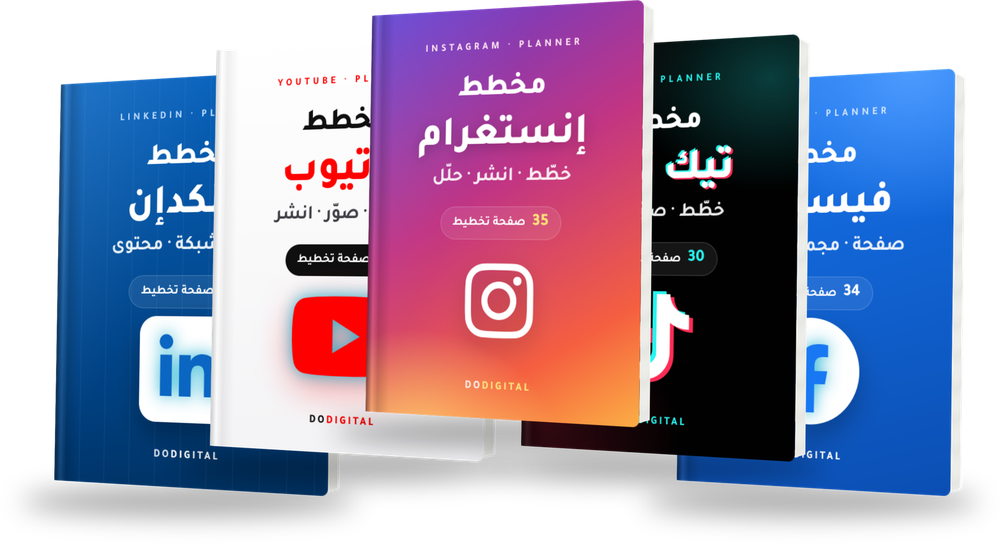
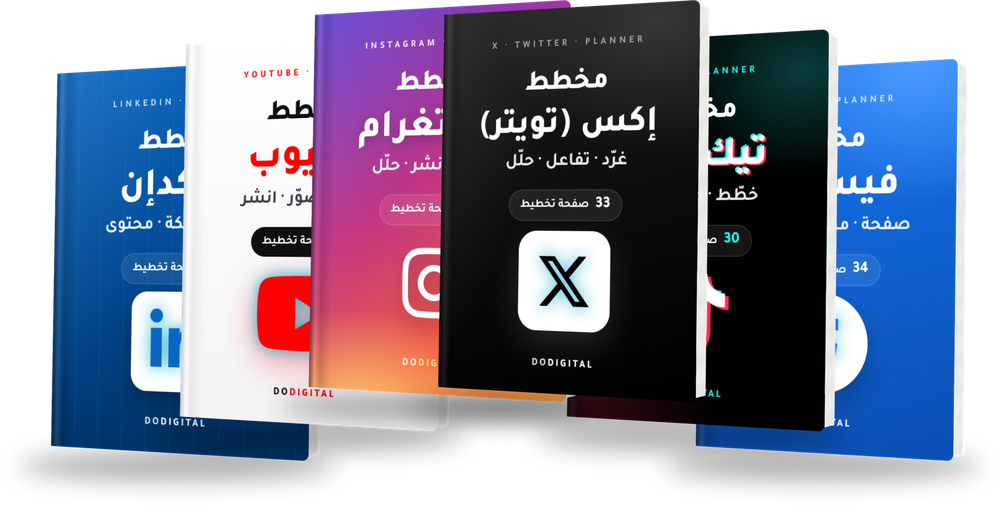
Add Arabic X (Twitter) planner; include it in both bundles
Claude-Session: https://claude.ai/code/session_01BZyLcaM7EqB3e378WxuMfY

diff --git a/template-x-planner.html b/template-x-planner.html
@@ -1,0 +1,134 @@
+<!doctype html>
+<html lang="ar" dir="rtl">
+<head>
+<meta charset="utf-8">
+<meta name="viewport" content="width=device-width, initial-scale=1">
+<title>مخطط إكس (تويتر) | DoDigital</title>
+<meta name="description" content="مخطط عربي متكامل لحسابك على إكس (تويتر): الملف والهوية وصوت العلامة، تخطيط التغريدات والوسائط والاستطلاعات والمساحات، الإحصائيات والأهداف، وحملات الإعلانات">
+<meta name="theme-color" content="#0B1026">
+<link rel="canonical" href="https://dodigital.me/template-x-planner.html">
+<meta property="og:type" content="website">
+<meta property="og:locale" content="ar_AR">
+<meta property="og:site_name" content="DoDigital">
+<meta property="og:title" content="مخطط إكس (تويتر) | DoDigital">
+<meta property="og:description" content="مخطط عربي متكامل لحسابك على إكس (تويتر): الملف والهوية وصوت العلامة، تخطيط التغريدات والوسائط والاستطلاعات والمساحات، الإحصائيات والأهداف، وحملات الإعلانات">
+<meta property="og:url" content="https://dodigital.me/template-x-planner.html">
+<meta property="og:image" content="https://dodigital.me/assets/img/products/tpl-x-planner-mockup.jpg">
+<meta name="twitter:card" content="summary_large_image">
+<link rel="icon" type="image/png" sizes="32x32" href="assets/img/favicon-32.png">
+<link rel="apple-touch-icon" href="assets/img/apple-touch-icon.png">
+<link rel="preconnect" href="https://fonts.googleapis.com">
+<link rel="preconnect" href="https://fonts.gstatic.com" crossorigin>
+<link href="https://fonts.googleapis.com/css2?family=Tajawal:wght@400;500;700;800&display=swap" rel="stylesheet">
+<link rel="stylesheet" href="assets/vendor/fontawesome/css/all.min.css?v=20261112b">
+<link rel="stylesheet" href="assets/css/style.css?v=20261112b">
+<script type="application/ld+json">{"@context": "https://schema.org", "@type": "Product", "name": "مخطط إكس (تويتر)", "image": "https://dodigital.me/assets/img/products/tpl-x-planner-mockup.jpg", "description": "مخطط عربي متكامل لحسابك على إكس (تويتر): الملف والهوية وصوت العلامة، تخطيط التغريدات والوسائط والاستطلاعات والمساحات، الإحصائيات والأهداف، وحملات الإعلانات واستهدافها.", "brand": {"@type": "Brand", "name": "DoDigital"}, "offers": {"@type": "Offer", "price": "39", "priceCurrency": "SAR", "availability": "https://schema.org/InStock", "url": "https://dodigital.me/template-x-planner.html"}}</script>
+</head>
+<body>
+
+<!-- ===== HEADER (same on every page) ===== -->
+<header class="header header--light">
+  <div class="container">
+    <a class="logo" href="index.html" aria-label="DoDigital الرئيسية"><img src="assets/img/logo.png" alt="DoDigital" width="146" height="32"></a>
+    <nav class="nav" aria-label="القائمة الرئيسية">
+      <button class="nav-close" data-menu-close aria-label="إغلاق القائمة"><i class="fas fa-xmark"></i></button>
+      <ul>
+        <li><a href="index.html">الرئيسية</a></li>
+        <li class="has-sub"><a href="products.html" class="active">منتجاتنا <i class="fas fa-chevron-down chev"></i></a>
+          <div class="sub">
+            <a href="books.html"><i class="fas fa-book ico-cyan"></i><div><strong>كتبنا</strong><span>كتب إلكترونية عملية في التسويق والذكاء الاصطناعي</span></div></a>
+            <a href="templates.html"><i class="fas fa-layer-group ico-violet"></i><div><strong>قوالب للتسويق</strong><span>قوالب جاهزة توفّر وقتك</span></div></a>
+            <a href="prompts.html"><i class="fas fa-wand-magic-sparkles ico-green"></i><div><strong>برومبتات مجانية</strong><span>أوامر ذكاء اصطناعي جاهزة للنسخ</span></div></a>
+          </div>
+        </li>
+        <li><a href="blog.html">المدونة</a></li>
+        <li><a href="contact.html">تواصل معنا</a></li>
+      </ul>
+      <a class="btn btn--grad btn--sm" href="prompts.html"><i class="fas fa-gift"></i> برومبتات مجانية</a>
+    </nav>
+    <button class="menu-btn" data-menu-open aria-label="فتح القائمة"><i class="fas fa-bars"></i></button>
+  </div>
+</header>
+
+<main style="padding-top:110px">
+  <section class="section" style="padding-top:50px">
+    <div class="container pd">
+      <div class="pd__media"><div class="pd__mockup pd__mockup--3d"><div class="price-tag"><del>79 ر.س</del><strong>39 ر.س</strong></div><div class="book3d" data-book3d tabindex="0" role="img" aria-label="مخطط إكس (تويتر): اسحب لتدوير الكتاب أو اضغط لقلبه" style="--spine:#000000"><div class="book3d__inner"><div class="book3d__face book3d__front"><img src="assets/img/products/tpl-x-planner-front.jpg" alt="غلاف مخطط إكس (تويتر)" width="600" height="829"></div><div class="book3d__face book3d__back"><img src="assets/img/products/tpl-x-planner-back.jpg" alt="الغلاف الخلفي: مخطط إكس (تويتر)" width="600" height="829" loading="lazy"></div><div class="book3d__spine"></div><div class="book3d__side"></div><div class="book3d__top"></div><div class="book3d__bottom"></div></div></div><p class="book3d-hint"><i class="fas fa-hand-pointer"></i> اسحب الكتاب لتدويره، أو اضغط عليه لقلبه</p></div></div>
+      <div>
+        <div class="crumbs" style="color:var(--muted)"><a href="index.html">الرئيسية</a><span>/</span><a href="templates.html">قوالب للتسويق</a></div>
+        <span class="badge badge--green" style="margin-bottom:14px"><i class="fas fa-bolt"></i> مخطط PDF · 35 صفحة</span>
+        <h1>مخطط إكس (تويتر)</h1>
+        <span class="price"><del>79</del>39 ر.س</span>
+        <p class="lead">مخطط عربي متكامل لحسابك على إكس (تويتر): الملف والهوية وصوت العلامة، تخطيط التغريدات والوسائط والاستطلاعات والمساحات، الإحصائيات والأهداف، وحملات الإعلانات واستهدافها.</p>
+        <div class="facts"><span><i class="fas fa-file-pdf"></i> PDF للطباعة والآيباد</span><span><i class="fas fa-layer-group"></i> 33 صفحة تخطيط</span><span><i class="fas fa-tablet-screen-button"></i> GoodNotes / Notability</span><span><i class="fas fa-language"></i> بالعربي</span></div>
+        <div class="actions">
+          <a class="btn btn--wa" href="https://wa.me/971552473989?text=%D9%85%D8%B1%D8%AD%D8%A8%D8%A7%D9%8B%20DoDigital%D8%8C%20%D8%A3%D8%B1%D8%BA%D8%A8%20%D8%A8%D8%B4%D8%B1%D8%A7%D8%A1%3A%20%D9%85%D8%AE%D8%B7%D8%B7%20%D8%A5%D9%83%D8%B3%20%28%D8%AA%D9%88%D9%8A%D8%AA%D8%B1%29%20%2839%20%D8%B1.%D8%B3%29" target="_blank" rel="noopener"><i class="fab fa-whatsapp"></i> اطلب الآن</a>
+          <a class="btn btn--line" href="contact.html">لديك سؤال؟</a>
+        </div>
+        <div class="prose" style="margin-top:40px">
+          <h2 style="margin-top:0">ماذا يحتوي؟</h2>
+          <ul><li>نظرة على السنة، والملف الشخصي والهوية، والجمهور المستهدف والمجال، وصوت العلامة</li><li>خطة المحتوى الشهرية، وجدول النشر الأسبوعي، وخطة النشر اليومية بالساعات</li><li>مخطط تغريدة، وأفكار ومحاور التغريدات، وعصف ذهني، وقائمة المحتوى</li><li>مخطط الوسائط (صور، GIF، فيديو)، وأفكار الفيديو، وأفكار الاستطلاعات، ومخطط المساحات</li><li>الهاشتاقات، وحسابات وهاشتاقات أتابعها، وعبارات الدعوة لاتخاذ إجراء</li><li>الإحصائيات الشهرية، والأهداف الشهرية، ومراجعة الشهر، ومتتبع المتابعين</li><li>مخطط الإعلانات (الحملة والاستهداف)، وإعلان الكاروسيل، وجدول الإعلانات الأسبوعي والشهري، وقائمة تحسين الحملة</li><li>التعاونات والشراكات، وقائمة جودة التغريدة، ومهام وقوائم، وبنك المحتوى</li></ul>
+          <h2>لمن هذا المنتج؟</h2>
+          <ul><li>أصحاب المشاريع والعلامات على إكس</li><li>صنّاع المحتوى والكتّاب ومديرو الحسابات</li><li>من يدير إعلانات إكس ويريد تنظيمها</li></ul>
+          <h2>أسئلة شائعة</h2>
+          <h3>كيف أستخدم المخطط؟</h3><p>افتح الملف على الآيباد في GoodNotes أو Notability واضغط على أي صفحة في الفهرس للانتقال إليها واكتب عليه مباشرة، أو اطبع الصفحات التي تحتاجها.</p><h3>هل الملف قابل للتعديل في Canva؟</h3><p>لا، الملف PDF نهائي جاهز للاستخدام والكتابة عليه.</p><h3>هل المخطط بالعربي؟</h3><p>نعم، كل الصفحات بالعربية ومن اليمين لليسار.</p>
+          <p style="font-size:14px;color:var(--muted)">منتج مستقل من DoDigital وغير تابع لشركة إكس (X Corp) أو معتمد منها.</p>
+          <div class="callout">منتج رقمي يصلك رابط تحميله بعد إتمام الطلب. للاستخدام في مشروعك فقط، ويُمنع إعادة بيع الملفات أو مشاركتها. راجع <a href="refund.html">سياسة الاسترجاع</a>.</div>
+        </div>
+      </div>
+    </div>
+  </section>
+
+  <section class="section inside" style="padding-top:0">
+    <div class="container">
+      <div class="head"><span class="eyebrow"><i class="far fa-eye"></i> شاهد قبل الشراء</span><h2>من داخل مخطط إكس (تويتر)</h2><p>عيّنة من صفحات المخطط كما ستصلك. اضغط على أي صفحة لتكبيرها.</p></div>
+      <div class="inside__grid" data-inside><button type="button" data-full="assets/img/products/inside/x-2.jpg"><img src="assets/img/products/inside/x-2-sm.jpg" alt="صفحة المحتويات من مخطط إكس (تويتر)" width="360" height="509" loading="lazy"><span>المحتويات</span></button><button type="button" data-full="assets/img/products/inside/x-4.jpg"><img src="assets/img/products/inside/x-4-sm.jpg" alt="صفحة الملف الشخصي والهوية من مخطط إكس (تويتر)" width="360" height="509" loading="lazy"><span>الملف الشخصي والهوية</span></button><button type="button" data-full="assets/img/products/inside/x-6.jpg"><img src="assets/img/products/inside/x-6-sm.jpg" alt="صفحة خطة المحتوى الشهرية من مخطط إكس (تويتر)" width="360" height="509" loading="lazy"><span>خطة المحتوى الشهرية</span></button><button type="button" data-full="assets/img/products/inside/x-10.jpg"><img src="assets/img/products/inside/x-10-sm.jpg" alt="صفحة جدول الإعلانات الأسبوعي من مخطط إكس (تويتر)" width="360" height="509" loading="lazy"><span>جدول الإعلانات الأسبوعي</span></button><button type="button" data-full="assets/img/products/inside/x-15.jpg"><img src="assets/img/products/inside/x-15-sm.jpg" alt="صفحة قائمة المحتوى من مخطط إكس (تويتر)" width="360" height="509" loading="lazy"><span>قائمة المحتوى</span></button><button type="button" data-full="assets/img/products/inside/x-18.jpg"><img src="assets/img/products/inside/x-18-sm.jpg" alt="صفحة قائمة جودة التغريدة من مخطط إكس (تويتر)" width="360" height="509" loading="lazy"><span>قائمة جودة التغريدة</span></button><button type="button" data-full="assets/img/products/inside/x-25.jpg"><img src="assets/img/products/inside/x-25-sm.jpg" alt="صفحة مخطط الإعلانات (2): الاستهداف من مخطط إكس (تويتر)" width="360" height="509" loading="lazy"><span>مخطط الإعلانات (2): الاستهداف</span></button><button type="button" data-full="assets/img/products/inside/x-30.jpg"><img src="assets/img/products/inside/x-30-sm.jpg" alt="صفحة التعاونات والشراكات من مخطط إكس (تويتر)" width="360" height="509" loading="lazy"><span>التعاونات والشراكات</span></button></div>
+    </div>
+  </section>
+</main>
+
+
+<!-- ===== FOOTER (same on every page) ===== -->
+<footer class="footer">
+  <div class="container footer__grid">
+    <div class="footer__brand">
+      <img src="assets/img/logo.png" alt="DoDigital" width="146" height="32" loading="lazy">
+      <p>متجر رقمي يقدم كتبًا وقوالب وبرومبتات تسويقية أعدّها خبراؤنا بخبرة تفوق 10 أعوام في التسويق وتطوير الأعمال، لتنمّي مشروعك بأذكى الطرق.</p>
+      <div class="social">
+        <a href="https://wa.me/971552473989" target="_blank" rel="noopener" aria-label="واتساب"><i class="fab fa-whatsapp"></i></a>
+        <a href="mailto:info@dodigital.me" aria-label="البريد الإلكتروني"><i class="fas fa-envelope"></i></a>
+      </div>
+    </div>
+    <div>
+      <h4>منتجاتنا</h4>
+      <ul>
+        <li><a href="books.html">كتبنا</a></li>
+        <li><a href="templates.html">قوالب للتسويق</a></li>
+        <li><a href="prompts.html">برومبتات مجانية</a></li>
+      </ul>
+    </div>
+    <div>
+      <h4>روابط تهمك</h4>
+      <ul>
+        <li><a href="blog.html">المدونة</a></li>
+        <li><a href="contact.html">تواصل معنا</a></li>
+        <li><a href="product-chatgpt.html">كتاب ChatGPT</a></li>
+        <li><a href="free-gift.html">هدية مجانية</a></li>
+        <li><a href="about.html">من نحن</a></li>
+      </ul>
+    </div>
+    <div>
+      <h4>تواصل معنا</h4>
+      <ul class="footer__contact">
+        <li><i class="fab fa-whatsapp"></i><a class="ltr" href="https://wa.me/971552473989" target="_blank" rel="noopener">+971 55 247 3989</a></li>
+        <li><i class="fas fa-phone"></i><a class="ltr" href="tel:+971552473989">+971 55 247 3989</a></li>
+        <li><i class="fas fa-envelope"></i><a href="mailto:info@dodigital.me">info@dodigital.me</a></li>
+      </ul>
+    </div>
+  </div>
+  <div class="footer__bottom"><div class="container"><span>© <span data-year>2026</span> DoDigital. جميع الحقوق محفوظة.</span><span class="legal"><a href="privacy.html">سياسة الخصوصية</a> · <a href="terms.html">الشروط والأحكام</a> · <a href="refund.html">سياسة الاسترجاع</a></span></div></div>
+</footer>
+<a class="wa-float" href="https://wa.me/971552473989" target="_blank" rel="noopener" aria-label="تواصل عبر واتساب"><i class="fab fa-whatsapp"></i></a>
+<script src="assets/js/main.js?v=20261112b"></script>
+</body>
+</html>

diff --git a/template-social-bundle.html b/template-social-bundle.html
@@ -4,14 +4,14 @@
 <meta charset="utf-8">
 <meta name="viewport" content="width=device-width, initial-scale=1">
 <title>باقة مخططات السوشيال ميديا | DoDigital</title>
-<meta name="description" content="خمسة مخططات عربية في باقة واحدة: إنستغرام وتيك توك وفيسبوك ويوتيوب ولينكدإن. كل ما تحتاجه لتنظيم محتواك وإحصائياتك وإعلاناتك على كل المنصات، بخصم يقارب الن">
+<meta name="description" content="ستة مخططات عربية في باقة واحدة: إنستغرام وتيك توك وفيسبوك ويوتيوب ولينكدإن وإكس. كل ما تحتاجه لتنظيم محتواك وإحصائياتك وإعلاناتك على كل المنصات، بخصم يقارب الن">
 <meta name="theme-color" content="#0B1026">
 <link rel="canonical" href="https://dodigital.me/template-social-bundle.html">
 <meta property="og:type" content="website">
 <meta property="og:locale" content="ar_AR">
 <meta property="og:site_name" content="DoDigital">
 <meta property="og:title" content="باقة مخططات السوشيال ميديا | DoDigital">
-<meta property="og:description" content="خمسة مخططات عربية في باقة واحدة: إنستغرام وتيك توك وفيسبوك ويوتيوب ولينكدإن. كل ما تحتاجه لتنظيم محتواك وإحصائياتك وإعلاناتك على كل المنصات، بخصم يقارب الن">
+<meta property="og:description" content="ستة مخططات عربية في باقة واحدة: إنستغرام وتيك توك وفيسبوك ويوتيوب ولينكدإن وإكس. كل ما تحتاجه لتنظيم محتواك وإحصائياتك وإعلاناتك على كل المنصات، بخصم يقارب الن">
 <meta property="og:url" content="https://dodigital.me/template-social-bundle.html">
 <meta property="og:image" content="https://dodigital.me/assets/img/products/tpl-social-bundle-mockup.jpg">
 <meta name="twitter:card" content="summary_large_image">
@@ -22,7 +22,7 @@
 <link href="https://fonts.googleapis.com/css2?family=Tajawal:wght@400;500;700;800&display=swap" rel="stylesheet">
 <link rel="stylesheet" href="assets/vendor/fontawesome/css/all.min.css?v=20261112b">
 <link rel="stylesheet" href="assets/css/style.css?v=20261112b">
-<script type="application/ld+json">{"@context": "https://schema.org", "@type": "Product", "name": "باقة مخططات السوشيال ميديا", "image": "https://dodigital.me/assets/img/products/tpl-social-bundle-mockup.jpg", "description": "خمسة مخططات عربية في باقة واحدة: إنستغرام وتيك توك وفيسبوك ويوتيوب ولينكدإن. كل ما تحتاجه لتنظيم محتواك وإحصائياتك وإعلاناتك على كل المنصات، بخصم يقارب النصف.", "brand": {"@type": "Brand", "name": "DoDigital"}, "offers": {"@type": "Offer", "price": "99", "priceCurrency": "SAR", "availability": "https://schema.org/InStock", "url": "https://dodigital.me/template-social-bundle.html"}}</script>
+<script type="application/ld+json">{"@context": "https://schema.org", "@type": "Product", "name": "باقة مخططات السوشيال ميديا", "image": "https://dodigital.me/assets/img/products/tpl-social-bundle-mockup.jpg", "description": "ستة مخططات عربية في باقة واحدة: إنستغرام وتيك توك وفيسبوك ويوتيوب ولينكدإن وإكس. كل ما تحتاجه لتنظيم محتواك وإحصائياتك وإعلاناتك على كل المنصات، بخصم يتجاوز النصف.", "brand": {"@type": "Brand", "name": "DoDigital"}, "offers": {"@type": "Offer", "price": "99", "priceCurrency": "SAR", "availability": "https://schema.org/InStock", "url": "https://dodigital.me/template-social-bundle.html"}}</script>
 </head>
 <body>
 
@@ -53,21 +53,21 @@
 <main style="padding-top:110px">
   <section class="section" style="padding-top:50px">
     <div class="container pd">
-      <div class="pd__media"><div class="pd__mockup"><div class="price-tag"><del>195 ر.س</del><strong>99 ر.س</strong></div><img src="assets/img/products/tpl-social-bundle-mockup.jpg" alt="باقة مخططات السوشيال ميديا" width="1400" height="1400"></div></div>
+      <div class="pd__media"><div class="pd__mockup"><div class="price-tag"><del>234 ر.س</del><strong>99 ر.س</strong></div><img src="assets/img/products/tpl-social-bundle-mockup.jpg" alt="باقة مخططات السوشيال ميديا" width="1400" height="1400"></div></div>
       <div>
         <div class="crumbs" style="color:var(--muted)"><a href="index.html">الرئيسية</a><span>/</span><a href="templates.html">قوالب للتسويق</a></div>
-        <span class="badge badge--green" style="margin-bottom:14px"><i class="fas fa-bolt"></i> 5 مخططات · 160+ صفحة</span>
+        <span class="badge badge--green" style="margin-bottom:14px"><i class="fas fa-bolt"></i> 6 مخططات · 190+ صفحة</span>
         <h1>باقة مخططات السوشيال ميديا</h1>
-        <span class="price"><del>195</del>99 ر.س</span>
-        <p class="lead">خمسة مخططات عربية في باقة واحدة: إنستغرام وتيك توك وفيسبوك ويوتيوب ولينكدإن. كل ما تحتاجه لتنظيم محتواك وإحصائياتك وإعلاناتك على كل المنصات، بخصم يقارب النصف.</p>
-        <div class="facts"><span><i class="fas fa-file-pdf"></i> PDF للطباعة والآيباد</span><span><i class="fas fa-layer-group"></i> 5 مخططات</span><span><i class="fas fa-tags"></i> توفير 96 ر.س</span><span><i class="fas fa-language"></i> بالعربي</span></div>
+        <span class="price"><del>234</del>99 ر.س</span>
+        <p class="lead">ستة مخططات عربية في باقة واحدة: إنستغرام وتيك توك وفيسبوك ويوتيوب ولينكدإن وإكس. كل ما تحتاجه لتنظيم محتواك وإحصائياتك وإعلاناتك على كل المنصات، بخصم يتجاوز النصف.</p>
+        <div class="facts"><span><i class="fas fa-file-pdf"></i> PDF للطباعة والآيباد</span><span><i class="fas fa-layer-group"></i> 6 مخططات</span><span><i class="fas fa-tags"></i> توفير 135 ر.س</span><span><i class="fas fa-language"></i> بالعربي</span></div>
         <div class="actions">
           <a class="btn btn--wa" href="https://wa.me/971552473989?text=%D9%85%D8%B1%D8%AD%D8%A8%D8%A7%D9%8B%20DoDigital%D8%8C%20%D8%A3%D8%B1%D8%BA%D8%A8%20%D8%A8%D8%B4%D8%B1%D8%A7%D8%A1%3A%20%D8%A8%D8%A7%D9%82%D8%A9%20%D9%85%D8%AE%D8%B7%D8%B7%D8%A7%D8%AA%20%D8%A7%D9%84%D8%B3%D9%88%D8%B4%D9%8A%D8%A7%D9%84%20%D9%85%D9%8A%D8%AF%D9%8A%D8%A7%20%2899%20%D8%B1.%D8%B3%29" target="_blank" rel="noopener"><i class="fab fa-whatsapp"></i> اطلب الآن</a>
           <a class="btn btn--line" href="contact.html">لديك سؤال؟</a>
         </div>
         <div class="prose" style="margin-top:40px">
           <h2 style="margin-top:0">ماذا يحتوي؟</h2>
-          <ul><li><a href="template-instagram-planner.html">مخطط إنستغرام</a></li><li><a href="template-tiktok-planner.html">مخطط تيك توك</a></li><li><a href="template-facebook-planner.html">مخطط فيسبوك</a></li><li><a href="template-youtube-planner.html">مخطط يوتيوب</a></li><li><a href="template-linkedin-planner.html">مخطط لينكدإن</a></li></ul>
+          <ul><li><a href="template-instagram-planner.html">مخطط إنستغرام</a></li><li><a href="template-tiktok-planner.html">مخطط تيك توك</a></li><li><a href="template-facebook-planner.html">مخطط فيسبوك</a></li><li><a href="template-youtube-planner.html">مخطط يوتيوب</a></li><li><a href="template-linkedin-planner.html">مخطط لينكدإن</a></li><li><a href="template-x-planner.html">مخطط إكس (تويتر)</a></li></ul>
           <h2>لمن هذا المنتج؟</h2>
           <ul><li>من يدير أكثر من حساب أو منصة</li><li>أصحاب المشاريع ومديرو السوشيال ميديا</li><li>من يريد كل المخططات بأقل سعر</li></ul>
           <h2>أسئلة شائعة</h2>
@@ -125,6 +125,15 @@
             <span class="badge badge--green" style="align-self:flex-start;margin-bottom:12px"><i class="fas fa-bolt"></i> مخطط PDF · 32 صفحة</span>
             <h3>مخطط لينكدإن</h3>
             <p>مخطط عربي متكامل للينكدإن: تخطيط وتحسين الملف الشخصي، البحث عن وظيفة، بناء شبكة العلاقات والتواصل مع العملاء، المنشورات…</p>
+            <div class="product-card__foot"><span class="price"><del>79</del>39 ر.س</span><span class="link-arrow">التفاصيل <i class="fas fa-arrow-left"></i></span></div>
+          </div>
+        </a>
+        <a class="product-card" href="template-x-planner.html">
+          <div class="product-card__media"><span class="badge">خصم 51%</span><img src="assets/img/products/tpl-x-planner-3d.png" alt="مخطط إكس (تويتر)" loading="lazy"></div>
+          <div class="product-card__body">
+            <span class="badge badge--green" style="align-self:flex-start;margin-bottom:12px"><i class="fas fa-bolt"></i> مخطط PDF · 35 صفحة</span>
+            <h3>مخطط إكس (تويتر)</h3>
+            <p>مخطط عربي لحسابك على إكس: الهوية وصوت العلامة، التغريدات والوسائط والاستطلاعات والمساحات، الإحصائيات والإعلانات…</p>
             <div class="product-card__foot"><span class="price"><del>79</del>39 ر.س</span><span class="link-arrow">التفاصيل <i class="fas fa-arrow-left"></i></span></div>
           </div>
         </a>

diff --git a/template-all-bundle.html b/template-all-bundle.html
@@ -4,14 +4,14 @@
 <meta charset="utf-8">
 <meta name="viewport" content="width=device-width, initial-scale=1">
 <title>الباقة الكاملة: كل المخططات | DoDigital</title>
-<meta name="description" content="كل مخططات DoDigital في باقة واحدة: مخططات السوشيال الخمسة، ومخطط 2027 لأهدافك وشهورك وميزانيتك، ومخطط رمضان. أفضل قيمة مقابل السعر.">
+<meta name="description" content="كل مخططات DoDigital في باقة واحدة: مخططات السوشيال الستة، ومخطط 2027 لأهدافك وشهورك وميزانيتك، ومخطط رمضان. أفضل قيمة مقابل السعر.">
 <meta name="theme-color" content="#0B1026">
 <link rel="canonical" href="https://dodigital.me/template-all-bundle.html">
 <meta property="og:type" content="website">
 <meta property="og:locale" content="ar_AR">
 <meta property="og:site_name" content="DoDigital">
 <meta property="og:title" content="الباقة الكاملة: كل المخططات | DoDigital">
-<meta property="og:description" content="كل مخططات DoDigital في باقة واحدة: مخططات السوشيال الخمسة، ومخطط 2027 لأهدافك وشهورك وميزانيتك، ومخطط رمضان. أفضل قيمة مقابل السعر.">
+<meta property="og:description" content="كل مخططات DoDigital في باقة واحدة: مخططات السوشيال الستة، ومخطط 2027 لأهدافك وشهورك وميزانيتك، ومخطط رمضان. أفضل قيمة مقابل السعر.">
 <meta property="og:url" content="https://dodigital.me/template-all-bundle.html">
 <meta property="og:image" content="https://dodigital.me/assets/img/products/tpl-all-bundle-mockup.jpg">
 <meta name="twitter:card" content="summary_large_image">
@@ -22,7 +22,7 @@
 <link href="https://fonts.googleapis.com/css2?family=Tajawal:wght@400;500;700;800&display=swap" rel="stylesheet">
 <link rel="stylesheet" href="assets/vendor/fontawesome/css/all.min.css?v=20261112b">
 <link rel="stylesheet" href="assets/css/style.css?v=20261112b">
-<script type="application/ld+json">{"@context": "https://schema.org", "@type": "Product", "name": "الباقة الكاملة: كل المخططات", "image": "https://dodigital.me/assets/img/products/tpl-all-bundle-mockup.jpg", "description": "كل مخططات DoDigital في باقة واحدة: مخططات السوشيال الخمسة، ومخطط 2027 لأهدافك وشهورك وميزانيتك، ومخطط رمضان. أفضل قيمة مقابل السعر.", "brand": {"@type": "Brand", "name": "DoDigital"}, "offers": {"@type": "Offer", "price": "129", "priceCurrency": "SAR", "availability": "https://schema.org/InStock", "url": "https://dodigital.me/template-all-bundle.html"}}</script>
+<script type="application/ld+json">{"@context": "https://schema.org", "@type": "Product", "name": "الباقة الكاملة: كل المخططات", "image": "https://dodigital.me/assets/img/products/tpl-all-bundle-mockup.jpg", "description": "كل مخططات DoDigital في باقة واحدة: مخططات السوشيال الستة، ومخطط 2027 لأهدافك وشهورك وميزانيتك، ومخطط رمضان. أفضل قيمة مقابل السعر.", "brand": {"@type": "Brand", "name": "DoDigital"}, "offers": {"@type": "Offer", "price": "129", "priceCurrency": "SAR", "availability": "https://schema.org/InStock", "url": "https://dodigital.me/template-all-bundle.html"}}</script>
 </head>
 <body>
 
@@ -53,21 +53,21 @@
 <main style="padding-top:110px">
   <section class="section" style="padding-top:50px">
     <div class="container pd">
-      <div class="pd__media"><div class="pd__mockup"><div class="price-tag"><del>263 ر.س</del><strong>129 ر.س</strong></div><img src="assets/img/products/tpl-all-bundle-mockup.jpg" alt="الباقة الكاملة: كل المخططات" width="1400" height="1400"></div></div>
+      <div class="pd__media"><div class="pd__mockup"><div class="price-tag"><del>302 ر.س</del><strong>129 ر.س</strong></div><img src="assets/img/products/tpl-all-bundle-mockup.jpg" alt="الباقة الكاملة: كل المخططات" width="1400" height="1400"></div></div>
       <div>
         <div class="crumbs" style="color:var(--muted)"><a href="index.html">الرئيسية</a><span>/</span><a href="templates.html">قوالب للتسويق</a></div>
-        <span class="badge badge--green" style="margin-bottom:14px"><i class="fas fa-bolt"></i> 7 مخططات · 210+ صفحة</span>
+        <span class="badge badge--green" style="margin-bottom:14px"><i class="fas fa-bolt"></i> 8 مخططات · 240+ صفحة</span>
         <h1>الباقة الكاملة: كل المخططات</h1>
-        <span class="price"><del>263</del>129 ر.س</span>
-        <p class="lead">كل مخططات DoDigital في باقة واحدة: مخططات السوشيال الخمسة، ومخطط 2027 لأهدافك وشهورك وميزانيتك، ومخطط رمضان. أفضل قيمة مقابل السعر.</p>
-        <div class="facts"><span><i class="fas fa-file-pdf"></i> PDF للطباعة والآيباد</span><span><i class="fas fa-layer-group"></i> 7 مخططات</span><span><i class="fas fa-tags"></i> توفير 134 ر.س</span><span><i class="fas fa-language"></i> بالعربي</span></div>
+        <span class="price"><del>302</del>129 ر.س</span>
+        <p class="lead">كل مخططات DoDigital في باقة واحدة: مخططات السوشيال الستة، ومخطط 2027 لأهدافك وشهورك وميزانيتك، ومخطط رمضان. أفضل قيمة مقابل السعر.</p>
+        <div class="facts"><span><i class="fas fa-file-pdf"></i> PDF للطباعة والآيباد</span><span><i class="fas fa-layer-group"></i> 8 مخططات</span><span><i class="fas fa-tags"></i> توفير 173 ر.س</span><span><i class="fas fa-language"></i> بالعربي</span></div>
         <div class="actions">
           <a class="btn btn--wa" href="https://wa.me/971552473989?text=%D9%85%D8%B1%D8%AD%D8%A8%D8%A7%D9%8B%20DoDigital%D8%8C%20%D8%A3%D8%B1%D8%BA%D8%A8%20%D8%A8%D8%B4%D8%B1%D8%A7%D8%A1%3A%20%D8%A7%D9%84%D8%A8%D8%A7%D9%82%D8%A9%20%D8%A7%D9%84%D9%83%D8%A7%D9%85%D9%84%D8%A9%3A%20%D9%83%D9%84%20%D8%A7%D9%84%D9%85%D8%AE%D8%B7%D8%B7%D8%A7%D8%AA%20%28129%20%D8%B1.%D8%B3%29" target="_blank" rel="noopener"><i class="fab fa-whatsapp"></i> اطلب الآن</a>
           <a class="btn btn--line" href="contact.html">لديك سؤال؟</a>
         </div>
         <div class="prose" style="margin-top:40px">
           <h2 style="margin-top:0">ماذا يحتوي؟</h2>
-          <ul><li><a href="template-instagram-planner.html">مخطط إنستغرام</a></li><li><a href="template-tiktok-planner.html">مخطط تيك توك</a></li><li><a href="template-facebook-planner.html">مخطط فيسبوك</a></li><li><a href="template-youtube-planner.html">مخطط يوتيوب</a></li><li><a href="template-linkedin-planner.html">مخطط لينكدإن</a></li><li><a href="template-planner-2027.html">مخطط 2027</a></li><li><a href="template-ramadan-planner.html">مخطط رمضان</a></li></ul>
+          <ul><li><a href="template-instagram-planner.html">مخطط إنستغرام</a></li><li><a href="template-tiktok-planner.html">مخطط تيك توك</a></li><li><a href="template-facebook-planner.html">مخطط فيسبوك</a></li><li><a href="template-youtube-planner.html">مخطط يوتيوب</a></li><li><a href="template-linkedin-planner.html">مخطط لينكدإن</a></li><li><a href="template-x-planner.html">مخطط إكس (تويتر)</a></li><li><a href="template-planner-2027.html">مخطط 2027</a></li><li><a href="template-ramadan-planner.html">مخطط رمضان</a></li></ul>
           <h2>لمن هذا المنتج؟</h2>
           <ul><li>من يدير أكثر من حساب أو منصة</li><li>أصحاب المشاريع ومديرو السوشيال ميديا</li><li>من يريد كل المخططات بأقل سعر</li></ul>
           <h2>أسئلة شائعة</h2>
@@ -125,6 +125,15 @@
             <span class="badge badge--green" style="align-self:flex-start;margin-bottom:12px"><i class="fas fa-bolt"></i> مخطط PDF · 32 صفحة</span>
             <h3>مخطط لينكدإن</h3>
             <p>مخطط عربي متكامل للينكدإن: تخطيط وتحسين الملف الشخصي، البحث عن وظيفة، بناء شبكة العلاقات والتواصل مع العملاء، المنشورات…</p>
+            <div class="product-card__foot"><span class="price"><del>79</del>39 ر.س</span><span class="link-arrow">التفاصيل <i class="fas fa-arrow-left"></i></span></div>
+          </div>
+        </a>
+        <a class="product-card" href="template-x-planner.html">
+          <div class="product-card__media"><span class="badge">خصم 51%</span><img src="assets/img/products/tpl-x-planner-3d.png" alt="مخطط إكس (تويتر)" loading="lazy"></div>
+          <div class="product-card__body">
+            <span class="badge badge--green" style="align-self:flex-start;margin-bottom:12px"><i class="fas fa-bolt"></i> مخطط PDF · 35 صفحة</span>
+            <h3>مخطط إكس (تويتر)</h3>
+            <p>مخطط عربي لحسابك على إكس: الهوية وصوت العلامة، التغريدات والوسائط والاستطلاعات والمساحات، الإحصائيات والإعلانات…</p>
             <div class="product-card__foot"><span class="price"><del>79</del>39 ر.س</span><span class="link-arrow">التفاصيل <i class="fas fa-arrow-left"></i></span></div>
           </div>
         </a>

diff --git a/templates.html b/templates.html
@@ -4,14 +4,14 @@
 <meta charset="utf-8">
 <meta name="viewport" content="width=device-width, initial-scale=1">
 <title>قوالب للتسويق | DoDigital</title>
-<meta name="description" content="مخططات تسويق عربية جاهزة من DoDigital: مخططات إنستغرام وتيك توك وفيسبوك ويوتيوب ولينكدإن و2027 للآيباد والطباعة.">
+<meta name="description" content="مخططات تسويق عربية جاهزة من DoDigital: مخططات إنستغرام وتيك توك وفيسبوك ويوتيوب ولينكدإن وإكس و2027 ورمضان للآيباد والطباعة.">
 <meta name="theme-color" content="#0B1026">
 <link rel="canonical" href="https://dodigital.me/templates.html">
 <meta property="og:type" content="website">
 <meta property="og:locale" content="ar_AR">
 <meta property="og:site_name" content="DoDigital">
 <meta property="og:title" content="قوالب للتسويق | DoDigital">
-<meta property="og:description" content="مخططات تسويق عربية جاهزة من DoDigital: مخططات إنستغرام وتيك توك وفيسبوك ويوتيوب ولينكدإن و2027 للآيباد والطباعة.">
+<meta property="og:description" content="مخططات تسويق عربية جاهزة من DoDigital: مخططات إنستغرام وتيك توك وفيسبوك ويوتيوب ولينكدإن وإكس و2027 ورمضان للآيباد والطباعة.">
 <meta property="og:url" content="https://dodigital.me/templates.html">
 <meta property="og:image" content="https://dodigital.me/assets/img/og.png">
 <meta name="twitter:card" content="summary_large_image">
@@ -62,21 +62,21 @@
       <div class="head"><span class="eyebrow"><i class="fas fa-layer-group"></i> قوالب التسويق</span><h2>مخططات تسويق جاهزة بالعربي</h2><p>مخططات رقمية تفاعلية للآيباد وقابلة للطباعة، تنظّم بها محتواك وحساباتك خطوة بخطوة.</p></div>
       <div class="products-grid">
         <a class="product-card" href="template-social-bundle.html">
-          <div class="product-card__media"><span class="badge">وفّر 96 ر.س</span><img src="assets/img/products/tpl-social-bundle-3d.png" alt="باقة مخططات السوشيال ميديا" loading="lazy"></div>
+          <div class="product-card__media"><span class="badge">وفّر 135 ر.س</span><img src="assets/img/products/tpl-social-bundle-3d.png" alt="باقة مخططات السوشيال ميديا" loading="lazy"></div>
           <div class="product-card__body">
-            <span class="badge badge--green" style="align-self:flex-start;margin-bottom:12px"><i class="fas fa-bolt"></i> باقة · 5 مخططات · 160+ صفحة</span>
+            <span class="badge badge--green" style="align-self:flex-start;margin-bottom:12px"><i class="fas fa-bolt"></i> باقة · 6 مخططات · 190+ صفحة</span>
             <h3>باقة مخططات السوشيال ميديا</h3>
-            <p>خمسة مخططات عربية في باقة واحدة: إنستغرام وتيك توك وفيسبوك ويوتيوب ولينكدإن. كل ما تحتاجه لتنظيم محتواك…</p>
-            <div class="product-card__foot"><span class="price"><del>195</del>99 ر.س</span><span class="link-arrow">التفاصيل <i class="fas fa-arrow-left"></i></span></div>
+            <p>ستة مخططات عربية في باقة واحدة: إنستغرام وتيك توك وفيسبوك ويوتيوب ولينكدإن وإكس. كل ما تحتاجه لتنظيم محتواك…</p>
+            <div class="product-card__foot"><span class="price"><del>234</del>99 ر.س</span><span class="link-arrow">التفاصيل <i class="fas fa-arrow-left"></i></span></div>
           </div>
         </a>
         <a class="product-card" href="template-all-bundle.html">
-          <div class="product-card__media"><span class="badge">وفّر 134 ر.س</span><img src="assets/img/products/tpl-all-bundle-3d.png" alt="الباقة الكاملة: كل المخططات" loading="lazy"></div>
+          <div class="product-card__media"><span class="badge">وفّر 173 ر.س</span><img src="assets/img/products/tpl-all-bundle-3d.png" alt="الباقة الكاملة: كل المخططات" loading="lazy"></div>
           <div class="product-card__body">
-            <span class="badge badge--green" style="align-self:flex-start;margin-bottom:12px"><i class="fas fa-bolt"></i> باقة · 7 مخططات · 210+ صفحة</span>
+            <span class="badge badge--green" style="align-self:flex-start;margin-bottom:12px"><i class="fas fa-bolt"></i> باقة · 8 مخططات · 240+ صفحة</span>
             <h3>الباقة الكاملة: كل المخططات</h3>
-            <p>كل مخططات DoDigital في باقة واحدة: مخططات السوشيال الخمسة، ومخطط 2027 لأهدافك وشهورك وميزانيتك، ومخطط رمضان.…</p>
-            <div class="product-card__foot"><span class="price"><del>263</del>129 ر.س</span><span class="link-arrow">التفاصيل <i class="fas fa-arrow-left"></i></span></div>
+            <p>كل مخططات DoDigital في باقة واحدة: مخططات السوشيال الستة، ومخطط 2027 لأهدافك وشهورك وميزانيتك، ومخطط رمضان.…</p>
+            <div class="product-card__foot"><span class="price"><del>302</del>129 ر.س</span><span class="link-arrow">التفاصيل <i class="fas fa-arrow-left"></i></span></div>
           </div>
         </a>
         <a class="product-card" href="template-instagram-planner.html">
@@ -139,6 +139,15 @@
             <span class="badge badge--green" style="align-self:flex-start;margin-bottom:12px"><i class="fas fa-bolt"></i> مخطط PDF · 32 صفحة</span>
             <h3>مخطط لينكدإن</h3>
             <p>مخطط عربي متكامل للينكدإن: تخطيط وتحسين الملف الشخصي، البحث عن وظيفة، بناء شبكة العلاقات والتواصل مع العملاء، المنشورات…</p>
+            <div class="product-card__foot"><span class="price"><del>79</del>39 ر.س</span><span class="link-arrow">التفاصيل <i class="fas fa-arrow-left"></i></span></div>
+          </div>
+        </a>
+        <a class="product-card" href="template-x-planner.html">
+          <div class="product-card__media"><span class="badge">خصم 51%</span><img src="assets/img/products/tpl-x-planner-3d.png" alt="مخطط إكس (تويتر)" loading="lazy"></div>
+          <div class="product-card__body">
+            <span class="badge badge--green" style="align-self:flex-start;margin-bottom:12px"><i class="fas fa-bolt"></i> مخطط PDF · 35 صفحة</span>
+            <h3>مخطط إكس (تويتر)</h3>
+            <p>مخطط عربي لحسابك على إكس: الهوية وصوت العلامة، التغريدات والوسائط والاستطلاعات والمساحات، الإحصائيات والإعلانات…</p>
             <div class="product-card__foot"><span class="price"><del>79</del>39 ر.س</span><span class="link-arrow">التفاصيل <i class="fas fa-arrow-left"></i></span></div>
           </div>
         </a>

diff --git a/products.html b/products.html
@@ -65,7 +65,7 @@
           <div class="cat-card__body"><i class="fas fa-book big" style="background:rgba(255,255,255,.1);color:#2BD97B"></i><h3>كتبنا</h3><p>كتب إلكترونية عملية بالعربية في التسويق والذكاء الاصطناعي وبناء الدخل.</p><span class="link-arrow">تصفّح الكتب <i class="fas fa-arrow-left"></i></span></div>
           <img class="cat-card__book" src="assets/img/book-3d.png" alt="" loading="lazy">
         </a>
-        <a class="cat-card" href="templates.html"><span class="badge badge--green">جديد</span><i class="fas fa-layer-group big ico-violet"></i><h3>قوالب للتسويق</h3><p>مخططات عربية جاهزة لإنستغرام وتيك توك وفيسبوك ويوتيوب ولينكدإن و2027، للآيباد والطباعة.</p><span class="link-arrow">تصفّح القوالب <i class="fas fa-arrow-left"></i></span></a>
+        <a class="cat-card" href="templates.html"><span class="badge badge--green">جديد</span><i class="fas fa-layer-group big ico-violet"></i><h3>قوالب للتسويق</h3><p>مخططات عربية جاهزة لإنستغرام وتيك توك وفيسبوك ويوتيوب ولينكدإن وإكس و2027 ورمضان، للآيباد والطباعة.</p><span class="link-arrow">تصفّح القوالب <i class="fas fa-arrow-left"></i></span></a>
         <a class="cat-card" href="prompts.html"><span class="badge badge--green">مجاني</span><i class="fas fa-wand-magic-sparkles big ico-green"></i><h3>برومبتات مجانية</h3><p>144 برومبتًا بالعربي في التسويق والبزنس والعقارات والمزيد.</p><span class="link-arrow">ابدأ مجانًا <i class="fas fa-arrow-left"></i></span></a>
       </div>
     </div>

diff --git a/index.html b/index.html
@@ -93,7 +93,7 @@
           <span class="badge badge--green">جديد</span>
           <i class="fas fa-layer-group big ico-violet"></i>
           <h3>قوالب للتسويق</h3>
-          <p>مخططات عربية جاهزة لإنستغرام وتيك توك وفيسبوك ويوتيوب ولينكدإن و2027، للآيباد والطباعة.</p>
+          <p>مخططات عربية جاهزة لإنستغرام وتيك توك وفيسبوك ويوتيوب ولينكدإن وإكس و2027 ورمضان، للآيباد والطباعة.</p>
           <span class="link-arrow">تصفّح القوالب <i class="fas fa-arrow-left"></i></span>
         </a>
         <a class="cat-card" href="prompts.html">

diff --git a/CLAUDE.md b/CLAUDE.md
@@ -6,7 +6,7 @@
 - Products menu has exactly three categories: كتبنا (`books.html`), قوالب للتسويق (`templates.html`), برومبتات مجانية (`prompts.html`). The site no longer offers consulting or training courses — don't add them back unless asked.
 - Blog articles are root-level pages (e.g. `copywriting-formulas.html`) using `.prose`, a sticky `.toc`, FAQ section and BlogPosting + FAQPage JSON-LD. New articles: link them from `blog.html`, the home blog section, and related articles; add to `sitemap.xml`.
 - Product pages show a draggable CSS 3D book (`.book3d`, flat covers `*-front.jpg` / `*-back.jpg`) and a "look inside" gallery of watermarked sample pages (`assets/img/products/inside/`, `data-inside`). Only watermarked samples may go in the repo, never full product files.
-- Products: book `product-chatgpt.html` (70); templates: `template-instagram-planner.html` (39) and `template-tiktok-planner.html` (39), `template-planner-2027.html`, `template-facebook-planner.html`, `template-youtube-planner.html`, `template-linkedin-planner.html` (all 39), `template-ramadan-planner.html` (29, own design), bundles `template-social-bundle.html` (99) and `template-all-bundle.html` (129, product-card grid of included planners instead of the 3D book), all PDF only — its source is a PLR product whose license allows selling finished PDF/PNG only, never editable/Canva files or PLR rights). Prices in SAR. Covers live in `assets/img/products/` (`*-3d.png` transparent for cards, `*-mockup.jpg` for product pages). New product page = copy an existing product page, update head meta + Product JSON-LD, add its card to `templates.html` or `books.html`, add to `sitemap.xml`. Never put the paid product files themselves in this public repo — buyers get them via a Google Drive link after paying.
+- Products: book `product-chatgpt.html` (70); templates: `template-instagram-planner.html` (39) and `template-tiktok-planner.html` (39), `template-planner-2027.html`, `template-facebook-planner.html`, `template-youtube-planner.html`, `template-linkedin-planner.html`, `template-x-planner.html` (all 39), `template-ramadan-planner.html` (29, own design), bundles `template-social-bundle.html` (99, 6 social planners) and `template-all-bundle.html` (129, all 8 planners, product-card grid of included planners instead of the 3D book), all PDF only — its source is a PLR product whose license allows selling finished PDF/PNG only, never editable/Canva files or PLR rights). Prices in SAR. Covers live in `assets/img/products/` (`*-3d.png` transparent for cards, `*-mockup.jpg` for product pages). New product page = copy an existing product page, update head meta + Product JSON-LD, add its card to `templates.html` or `books.html`, add to `sitemap.xml`. Never put the paid product files themselves in this public repo — buyers get them via a Google Drive link after paying.
 - Prompts on `prompts.html` (100+) are `<article class="prompt" data-cat="...">` cards with `<mark>[variables]</mark>`, a copy button and `data-ai="chatgpt|claude"` links (hrefs filled by main.js); fields (data-cat): marketing, business, realestate, ecommerce, sales, content, visual (= "الصور والفيديو"), income (= "صناعة المال", sub-badges like العمل الحر / الدروبشيبينغ). `prompts.html#income` opens a tab directly. Update tab counts and the totals on index.html/products.html when adding prompts.
 - `free-gift.html` gates a free 9-page sample of the 2027 planner behind a name + email form (`data-gift-form`; leads go to the Google Form set in `LEADS` in main.js, or to WhatsApp while LEADS.FORM is empty) (`assets/free/dodigital-2027-free-sample.pdf`, our own design, OK to be public) next to the newsletter form; `about.html` is the من نحن page. Both are linked in every footer.
 - Header and footer are duplicated in every `.html` page — when editing them, update every page.
